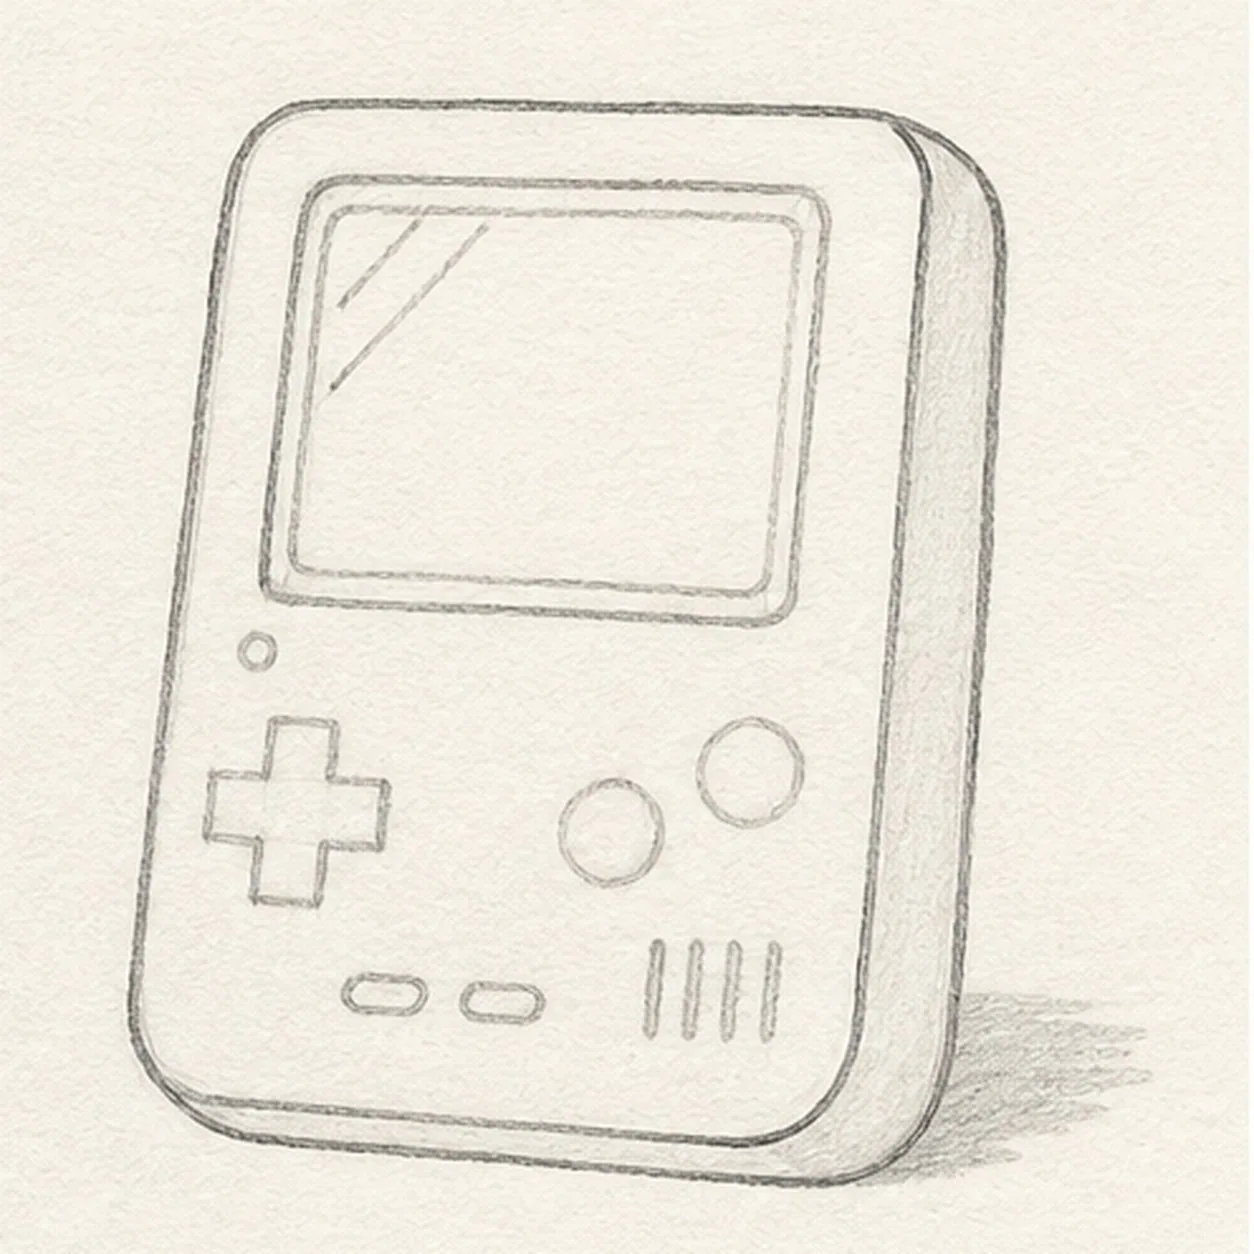
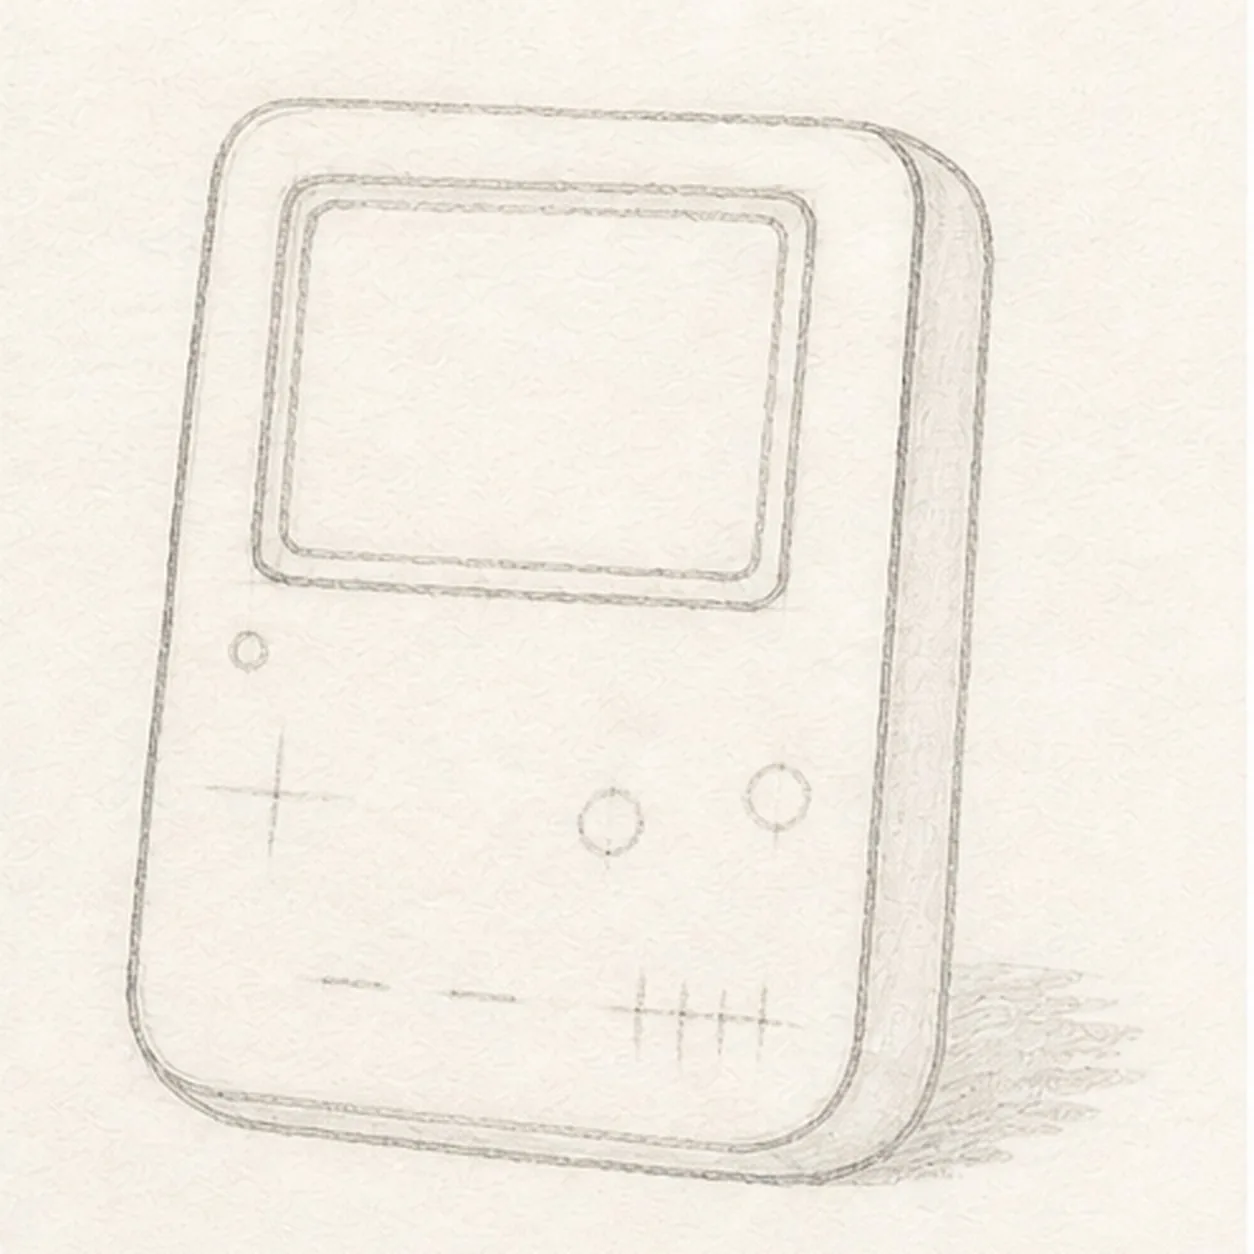
Repair handheld console setup steps

diff --git a/tutorials/retro-handheld-game-console.html b/tutorials/retro-handheld-game-console.html
@@ -87,18 +87,18 @@
       "step": [
         {
           "@type": "HowToStep",
-          "name": "Map the console controls",
-          "text": "Use pale construction to place one tilted rounded shell, the inset blank-screen footprint, one D-pad, exactly two action-button circles, two small menu buttons, four speaker slots, one power light, and a broken shadow."
+          "name": "Set the console perspective",
+          "text": "Draw one pale tilted center axis and a loose rounded front-face envelope, then place the blank-screen footprint, right-side thickness offset, D-pad center, exactly two action-button centers, two menu-button centers, a four-slot speaker baseline, one power-light center, and the broken shadow footprint. Keep this map sparse."
         },
         {
           "@type": "HowToStep",
-          "name": "Shape the chunky shell",
-          "text": "Wrap the guides with the rounded three-quarter shell, visible side planes, and inset screen bezel while preserving all control centers and the shadow route."
+          "name": "Build the shell and screen",
+          "text": "Wrap the map with the complete rounded three-quarter shell, visible right-side thickness plane, and raised blank-screen bezel. Keep the D-pad, buttons, speaker, power light, highlights, and shadow as pale placement marks for now."
         },
         {
           "@type": "HowToStep",
-          "name": "Place the retro controls",
-          "text": "Add one crisp D-pad, exactly two round action buttons, two small horizontal menu buttons, four short speaker slots, one power light, and two diagonal highlights inside the established screen."
+          "name": "Install the controls and hardware",
+          "text": "Complete one D-pad, exactly two round action buttons, two small horizontal menu buttons, four short speaker slots, one power light, two diagonal blank-screen highlights, and the broken shadow outline in refined pencil."
         },
         {
           "@type": "HowToStep",
@@ -195,36 +195,36 @@
             <button class="step-check" type="button" aria-label="Mark step 1 complete"><span></span></button>
             <div class="step-number">01</div>
             <div class="step-art">
-              <img src="../assets/retro-handheld-game-console-step-1.webp" alt="Map the console controls stage for how to draw a handheld game console" width="627" height="627" loading="lazy">
+              <img src="../assets/retro-handheld-game-console-step-1.webp" alt="Set the console perspective stage for how to draw a handheld game console" width="627" height="627" loading="lazy">
             </div>
             <div class="step-copy">
-              <h3>Map the console controls</h3>
-              <p>Use pale construction to place one tilted rounded shell, the inset blank-screen footprint, one D-pad, exactly two action-button circles, two small menu buttons, four speaker slots, one power light, and a broken shadow.</p>
-              <p class="artist-tip"><strong>Marker tip:</strong> Ghost the console's long diagonals first, then compare the empty space on each side of the screen. Count every control before darkening anything so the hardware layout stays stable through the marker passes.</p>
+              <h3>Set the console perspective</h3>
+              <p>Draw one pale tilted center axis and a loose rounded front-face envelope, then place the blank-screen footprint, right-side thickness offset, D-pad center, exactly two action-button centers, two menu-button centers, a four-slot speaker baseline, one power-light center, and the broken shadow footprint. Keep this map sparse.</p>
+              <p class="artist-tip"><strong>Marker tip:</strong> Ghost the console's long diagonals before touching down, then compare the empty margins around the screen. Use tiny centers and ticks for the hardware so this frame plans the layout without prematurely drawing the finished controls.</p>
             </div>
           </li>
           <li class="step-card">
             <button class="step-check" type="button" aria-label="Mark step 2 complete"><span></span></button>
             <div class="step-number">02</div>
             <div class="step-art">
-              <img src="../assets/retro-handheld-game-console-step-2.webp" alt="Shape the chunky shell stage for how to draw a handheld game console" width="627" height="627" loading="lazy">
+              <img src="../assets/retro-handheld-game-console-step-2.webp" alt="Build the shell and screen stage for how to draw a handheld game console" width="627" height="627" loading="lazy">
             </div>
             <div class="step-copy">
-              <h3>Shape the chunky shell</h3>
-              <p>Wrap the guides with the rounded three-quarter shell, visible side planes, and inset screen bezel while preserving all control centers and the shadow route.</p>
-              <p class="artist-tip"><strong>Marker tip:</strong> Pull each long edge from the shoulder and keep opposite screen edges in the same perspective family. Leave the screen blank so its shape and reflections do the visual work without a logo or fake interface.</p>
+              <h3>Build the shell and screen</h3>
+              <p>Wrap the map with the complete rounded three-quarter shell, visible right-side thickness plane, and raised blank-screen bezel. Keep the D-pad, buttons, speaker, power light, highlights, and shadow as pale placement marks for now.</p>
+              <p class="artist-tip"><strong>Marker tip:</strong> Pull each long shell edge from the shoulder and rotate the page for the rounded corners. Keep opposite screen edges in the same perspective family, then trace the outer shell and bezel with your finger before adding any hardware.</p>
             </div>
           </li>
           <li class="step-card">
             <button class="step-check" type="button" aria-label="Mark step 3 complete"><span></span></button>
             <div class="step-number">03</div>
             <div class="step-art">
-              <img src="../assets/retro-handheld-game-console-step-3.webp" alt="Place the retro controls stage for how to draw a handheld game console" width="627" height="627" loading="lazy">
+              <img src="../assets/retro-handheld-game-console-step-3.webp" alt="Install the controls and hardware stage for how to draw a handheld game console" width="627" height="627" loading="lazy">
             </div>
             <div class="step-copy">
-              <h3>Place the retro controls</h3>
-              <p>Add one crisp D-pad, exactly two round action buttons, two small horizontal menu buttons, four short speaker slots, one power light, and two diagonal highlights inside the established screen.</p>
-              <p class="artist-tip"><strong>Marker tip:</strong> Build the D-pad from two crossing rounded bars and compare the two action-button gaps. Keep the four speaker slots parallel and short so they read as hardware instead of decorative stripes.</p>
+              <h3>Install the controls and hardware</h3>
+              <p>Complete one D-pad, exactly two round action buttons, two small horizontal menu buttons, four short speaker slots, one power light, two diagonal blank-screen highlights, and the broken shadow outline in refined pencil.</p>
+              <p class="artist-tip"><strong>Marker tip:</strong> Build the D-pad from two crossing rounded bars and compare the action-button gaps. Count two menu buttons and four parallel speaker slots, then confirm every shape is present before reaching for the black marker.</p>
             </div>
           </li>
           <li class="step-card">

diff --git a/HUMANS.md b/HUMANS.md
@@ -1,11 +1,24 @@
 # Human Notes
 
 ## Last Accessed
-- Date: 2026-08-09
+- Date: 2026-08-10
 - Agent harness: Codex
 - Harness project/session name: Daily sketch and doodle lessons
 - Local path: `/Users/mybbor/Library/CloudStorage/Dropbox/websites/doodlea.day`
-- Previous: 2026-08-08 / Codex / Daily sketch and doodle lessons
+- Previous: 2026-08-09 / Codex / Daily sketch and doodle lessons
+
+### 2026-08-10 — Handheld-console early-step correction (Codex)
+- Corrected `retro-handheld-game-console` after the archive audit found Steps
+  1-3 revealed nearly the complete device and mostly changed line darkness.
+  One generated repair sheet produced three distinct jobs: sparse perspective
+  scaffold, shell-and-screen construction, then controls and hardware. Public
+  Steps 4-5 and the finished JPG remain byte-identical to the approved lesson.
+- The original Step 1-3 JPG masters and contact sheet remain private under
+  `superseded-near-duplicate-early-panels-v1/`. Readiness, schema-v2 planning,
+  frame deltas, JSON-LD, 209 internal URLs, lab privacy, diff checks, and
+  rendered desktop/mobile QA passed. The finished art remains 9.7/10, and the
+  one-current-lesson-per-site cadence remains active; this was an explicit
+  published-lesson repair, not a new or routine backdated tutorial.
 
 ### 2026-08-09 — Open-book early-step correction (Codex)
 - Corrected `open-book-with-ribbon-bookmark` after owner review found Steps
